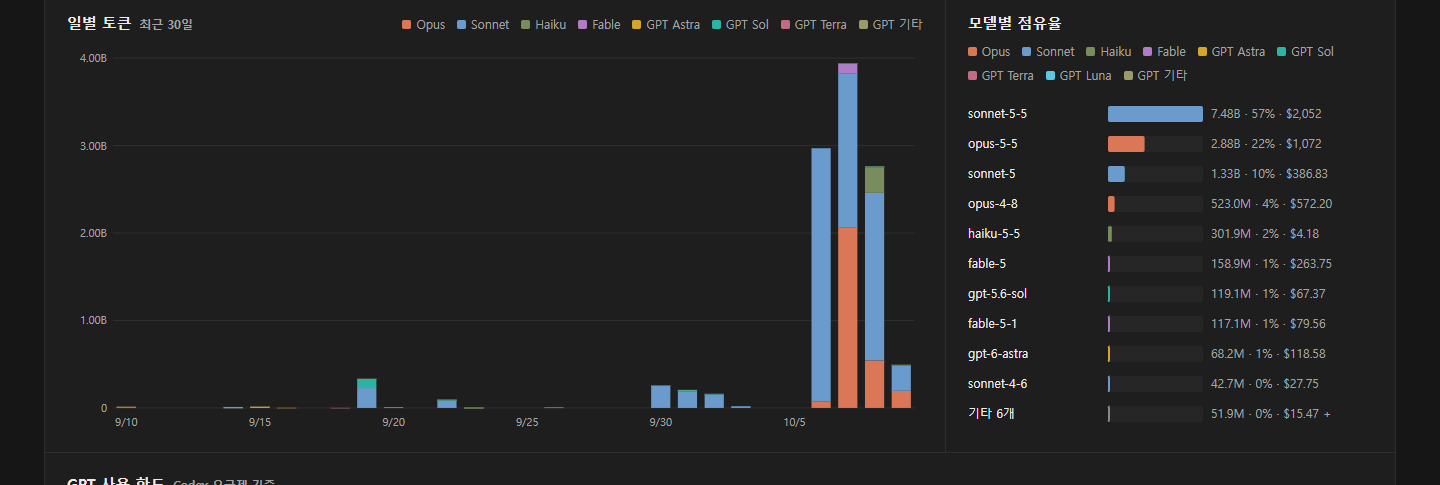
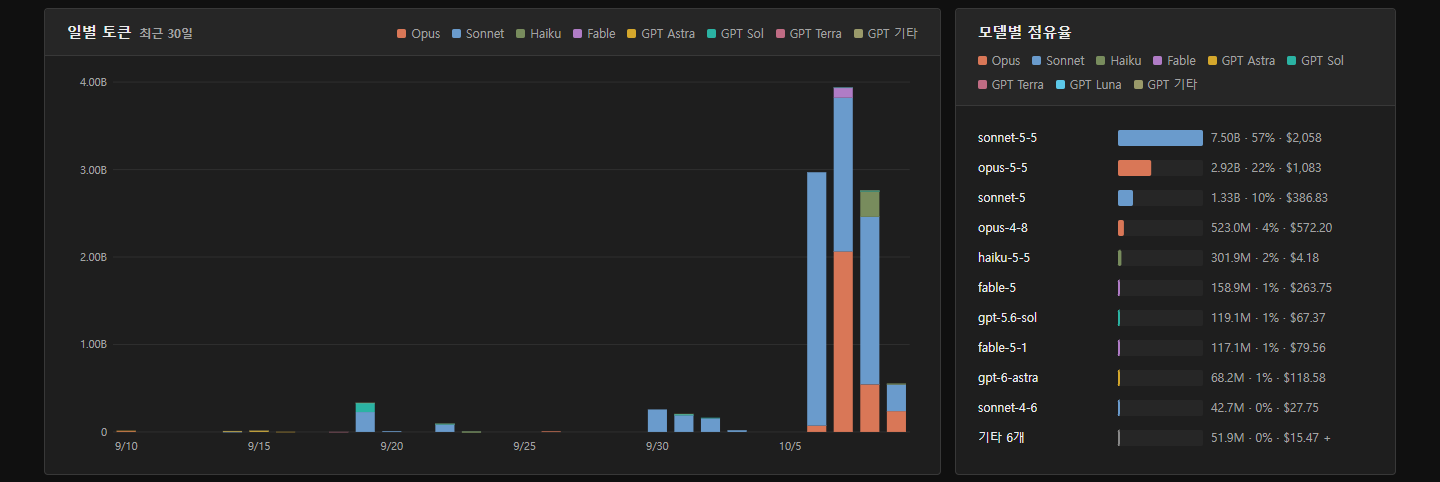
Design: clearly separated panels, drop current-hour marker; README update
- Panels sit on 14px gutters with a border and a raised title band each
- Hourly chart no longer draws the 지금 label / mint outline / tick
- README: new 화면 구성 section, 지금/특보 features, last60, ?theme and
  ?force-advisory, PRODUCT.md/DESIGN.md in the structure; new screenshots
- DESIGN.md, design sidecar and direction contract synced

diff --git a/public/style.css b/public/style.css
@@ -4,11 +4,11 @@
 
 :root {
   color-scheme: dark;
-  --ground: #161616;
+  --ground: #101010;
   --surface: #1e1e1e;
   --surface-2: #262626;
   --line: #2e2e2e;
-  --line-2: #3d3d3d;
+  --line-2: #383838;
   --ink: #ececec;
   --ink-2: #bdbdbd;
   --muted: #a3a3a3;
@@ -137,16 +137,15 @@ input { caret-color: var(--focus); }
 .grid {
   display: grid;
   grid-template-columns: repeat(12, minmax(0, 1fr));
-  gap: 1px;
-  background: var(--line);
-  border: 1px solid var(--line);
-  border-top: 0;
-  margin-top: 0;
+  gap: 14px;
+  margin-top: 14px;
 }
 .cell {
   background: var(--surface);
+  border: 1px solid var(--line-2);
+  border-radius: 4px;
   --px: 22px;
-  --py: 20px;
+  --py: 18px;
   padding: var(--py) var(--px);
   min-width: 0;
   display: flex;
@@ -164,7 +163,12 @@ input { caret-color: var(--focus); }
   justify-content: space-between;
   flex-wrap: wrap;
   gap: 8px 12px;
-  margin-bottom: 14px;
+  /* 패널 머리띠: 패널 폭 전체에 걸친 구분선으로 제목과 내용을 확실히 나눔 */
+  margin: calc(-1 * var(--py)) calc(-1 * var(--px)) 16px;
+  padding: 12px var(--px);
+  background: var(--surface-2);
+  border-bottom: 1px solid var(--line-2);
+  border-radius: 4px 4px 0 0;
 }
 .cell-head h2 { display: flex; align-items: baseline; gap: 8px; flex-wrap: wrap; }
 
@@ -261,10 +265,10 @@ input { caret-color: var(--focus); }
   display: grid;
   grid-template-columns: repeat(12, minmax(0, 1fr));
   /* 셀 안쪽 테두리 없이 셀 가장자리까지 펼치고, 카드의 윗선/왼쪽선이 셀 선과 한 격자를 이룸 (위 4/8 구분선과 같은 열 격자) */
-  margin: 0 calc(-1 * var(--px)) calc(-1 * var(--py)) calc(-1 * var(--px) - 1px);
+  margin: -17px calc(-1 * var(--px)) calc(-1 * var(--py)) calc(-1 * var(--px) - 1px);
 }
 .live-grid > .empty { grid-column: 1 / -1; padding: 16px var(--px); border-top: 1px solid var(--line); }
-.live-grid > .live-card { grid-column: span 4; border-top: 1px solid var(--line); border-left: 1px solid var(--line); }
+.live-grid > .live-card { grid-column: span 4; border-top: 1px solid var(--line-2); border-left: 1px solid var(--line-2); }
 .live-grid > .live-card:last-child:nth-child(3n+1) { grid-column: 1 / -1; }
 .live-grid > .live-card:nth-last-child(2):nth-child(3n+1),
 .live-grid > .live-card:last-child:nth-child(3n+2) { grid-column: span 6; }
@@ -374,15 +378,6 @@ input { caret-color: var(--focus); }
 .chart svg .track { fill: var(--surface-2); }
 .chart svg .hit { fill: transparent; cursor: default; }
 .chart svg .hit:hover { fill: color-mix(in srgb, var(--ink) 7%, transparent); }
-/* 현재 시간: 막대 윤곽 + "지금" 라벨 + 기준선 틱, 민트. 불투명도만 천천히 변함 */
-.chart svg .cur { animation: curPulse 3.6s ease-in-out infinite; pointer-events: none; }
-.chart svg .cur-box { fill: none; stroke: var(--live); stroke-width: 1.5; }
-.chart svg .cur-tick { stroke: var(--live); stroke-width: 2.5; }
-.chart svg text.cur-label { fill: var(--live); font-size: 11px; font-weight: 600; }
-@keyframes curPulse {
-  0%, 100% { opacity: 1; }
-  50% { opacity: 0.45; }
-}
 /* 시간별: 일별과 같이 셀 높이를 채움 (SVG는 절대 배치). 지금 블록 높이가 행 높이를 정함 */
 .c8.hourly { display: flex; flex-direction: column; }
 #hourly-chart { position: relative; flex: 1 1 auto; min-height: 220px; margin-top: 2px; }
@@ -682,7 +677,6 @@ table.agents td:first-child { max-width: 96px; overflow: hidden; text-overflow: 
 
 /* ---------- 움직임 최소화 ---------- */
 @media (prefers-reduced-motion: reduce) {
-  .badge.busy .dot, .chart svg .cur { animation: none !important; }
-  .drawer { transition: none !important; }
+  .badge.busy .dot,   .drawer { transition: none !important; }
   .flash { animation: none !important; }
 }

diff --git a/public/app.js b/public/app.js
@@ -716,10 +716,9 @@
     return { label: label, total: total, parts: parts, tip: tip };
   }
   // o.fill: 컨테이너(position:relative)를 채우도록 SVG를 절대 배치 (레이아웃 피드백 방지)
-  // o.outlineLast: 마지막(현재) 항목만 막대 윤곽 + "지금" 라벨 + 민트 기준선 틱
   function stackedBars(items, o) {
     var W = o.width, H = o.height;
-    var pl = 46, pr = o.outlineLast ? 12 : 8, pt = o.outlineLast ? 24 : 10, pb = 24;
+    var pl = 46, pr = 8, pt = 10, pb = 24;
     var iw = W - pl - pr, ih = H - pt - pb;
     var max = 0;
     items.forEach(function (it) { if (it.total > max) max = it.total; });
@@ -734,11 +733,9 @@
       out.push('<text class="axis" x="' + (pl - 6) + '" y="' + (gy + 4) + '" text-anchor="end">' +
         esc(fmtNum(sc.step * g)) + '</text>');
     }
-    var cur = null;
     items.forEach(function (it, i) {
       var x = pl + i * slot + (slot - bw) / 2;
       var base = pt + ih;
-      var isCur = o.outlineLast && i === items.length - 1;
       if (it.total > 0) {
         FAMILIES.forEach(function (f) {
           var v = (it.parts && it.parts[f]) || 0;
@@ -755,26 +752,12 @@
         out.push('<line class="day-sep" x1="' + (pl + i * slot).toFixed(1) + '" x2="' + (pl + i * slot).toFixed(1) +
           '" y1="' + pt + '" y2="' + (pt + ih) + '"/>');
       }
-      if (isCur) cur = { x: x, top: base };
       var showLabel = o.labelEvery ? i % o.labelEvery === 0 : it.show !== false;
       if (showLabel) {
         out.push('<text class="axis" x="' + (x + bw / 2).toFixed(1) + '" y="' + (H - 6) +
           '" text-anchor="middle">' + esc(it.label) + '</text>');
       }
     });
-    if (cur) {
-      // 현재 열의 막대 + 약간의 여유 높이만 윤곽선으로 표시하고, 위에 "지금", 아래 기준선에 민트 틱
-      var by = pt + ih, pad = 3, head = 6;
-      var ry = Math.max(2, Math.min(cur.top - head, by - 10));
-      var rx = cur.x - pad, rw = bw + pad * 2;
-      var cx = cur.x + bw / 2;
-      var anchor = cx > W - 18 ? 'end' : 'middle';
-      var lx = anchor === 'end' ? Math.min(W - 2, cx + bw / 2 + pad) : cx;
-      out.push('<g class="cur"><rect class="cur-box" x="' + rx.toFixed(1) + '" y="' + ry.toFixed(1) + '" width="' + rw.toFixed(1) +
-        '" height="' + (by - ry).toFixed(1) + '"/>' +
-        '<text class="cur-label" x="' + lx.toFixed(1) + '" y="' + (ry - 5).toFixed(1) + '" text-anchor="' + anchor + '">지금</text>' +
-        '<line class="cur-tick" x1="' + (rx - 2).toFixed(1) + '" x2="' + (rx + rw + 2).toFixed(1) + '" y1="' + by + '" y2="' + by + '"/></g>');
-    }
     if (max === 0) {
       out.push('<text class="axis" x="' + (W / 2) + '" y="' + (pt + ih / 2) + '" text-anchor="middle">기록 없음</text>');
     }
@@ -884,7 +867,7 @@
     var h = Math.max(220, Math.floor(el.clientHeight || 0));
     el._drawnW = w; el._drawnH = h;
     var items = buildHourly(sum, w < 560 ? 12 : 6);
-    el.innerHTML = stackedBars(items, { width: w, height: h, label: '최근 48시간 시간별 토큰', outlineLast: true, fill: true });
+    el.innerHTML = stackedBars(items, { width: w, height: h, label: '최근 48시간 시간별 토큰', fill: true });
     $('hourly-legend').innerHTML = legendHTML(sumParts(items), effProvider());
   }
   function renderModelShare(sum) {

diff --git a/public/index.html b/public/index.html
@@ -26,7 +26,7 @@
 
     <div class="grid">
       <section class="cell c4 now" aria-labelledby="now-h">
-        <h2 id="now-h">지금</h2>
+        <div class="cell-head"><h2 id="now-h">지금</h2></div>
         <div id="now-val" class="reading" aria-live="off">…</div>
         <div id="now-caption" class="now-caption muted small">불러오는 중</div>
         <div id="now-vs" class="now-vs small"></div>

diff --git a/DESIGN.md b/DESIGN.md
@@ -140,11 +140,11 @@ components:
 
 **Creative North Star: "The Night Forecast Office"**
 
-The dashboard reads token usage the way a weather service reads the sky. One large, light-weight numeral (지금, the last 60 minutes) is the temperature; a 48-hour hourly strip is the forecast; an amber 특보 appears only when the burn is abnormal and is otherwise absent. Everything sits on a dark neutral gray ground, divided into one 12-column cell grid by 1px hairlines. Nothing floats, nothing casts a shadow, and nothing is stacked as a rounded card.
+The dashboard reads token usage the way a weather service reads the sky. One large, light-weight numeral (지금, the last 60 minutes) is the temperature; a 48-hour hourly strip is the forecast; an amber 특보 appears only when the burn is abnormal and is otherwise absent. Everything sits on a dark neutral gray ground, laid out as bordered panels on one 12-column grid with 14px gutters of ground between them; each panel opens with a raised title band. Nothing casts a shadow.
 
 Color is spent like a signal budget. Mint means exactly one thing (running now), amber means exactly one thing (an advisory), and the model-family inks are a fixed transit-map legend that never changes meaning between charts, dots and legends. All remaining chrome is neutral gray, ink and hairline. Density is that of an instrument panel: 13-14px tabular text, compact controls, generous reading numerals.
 
-The page is built to stay open all day on a side monitor. Motion is limited to slow opacity pulses on live signals and a 0.2s drawer slide, all disabled under reduced motion. Dark is the default; the light theme is a daylight transposition of the same world, not a different one.
+The page is built to stay open all day on a side monitor. Motion is limited to a slow opacity pulse on the 작업 중 dot and a 0.2s drawer slide, all disabled under reduced motion. Dark is the default; the light theme is a daylight transposition of the same world, not a different one.
 
 **Key Characteristics:**
 - Dark neutral gray ground (no blue cast, per the user) with a slightly lighter work surface, divided by 1px hairlines.
@@ -159,7 +159,7 @@ The page is built to stay open all day on a side monitor. Motion is limited to s
 A dark neutral gray field carrying two reserved signal colors and a fixed legend of model-family inks.
 
 ### Primary
-- **Running Mint** (`live-mint`; daylight `day-live-mint`): the only "running now" signal. Used on the 작업 중 badge and its pulsing dot, the running-session count in the 지금 facts, and the current-hour outline, tick and 지금 label on the hourly strip. Never decorative, never a generic accent.
+- **Running Mint** (`live-mint`; daylight `day-live-mint`): the only "running now" signal. Used on the 작업 중 badge and its pulsing dot, and the running-session count in the 지금 facts. The hourly strip carries no current-hour marker (removed at the user's request). Never decorative, never a generic accent.
 
 ### Secondary
 - **Advisory Amber** (`advisory-amber`; daylight `day-advisory-amber`): the 특보 color. Used on the advisory banner (60% mix border, 11% mix fill, full-strength text), its 이번 시간 닫기 button, and the "평소의 N배" comparison under the reading when the hour runs hot. Absent when there is no advisory.
@@ -178,7 +178,7 @@ A dark neutral gray field carrying two reserved signal colors and a fixed legend
 - **Error Red** (`error-red`): error banner and gauges at high use only.
 
 ### Named Rules
-**The Reserved Mint Rule.** Mint appears only where something is running now. If nothing is running, no mint is on screen except the current-hour marker.
+**The Reserved Mint Rule.** Mint appears only where something is running now. If nothing is running, no mint is on screen.
 
 **The Advisory-Only Amber Rule.** Amber is spent only on the 특보 and the hot-hour comparison. It is never a warning color for anything else.
 
@@ -207,7 +207,7 @@ A dark neutral gray field carrying two reserved signal colors and a fixed legend
 
 ## Layout
 
-One centered column (max 1400px; 20px side padding, 24px from 1000px, 14px under 600px). Below the top bar, an optional status banner and the 특보 sit above a single 12-column grid whose 1px gaps are filled with the hairline color, so the gaps themselves draw the dividers. Cells span 4, 8 or 12 columns from 1000px up and all cells go full width below. Row 1 is 지금 (4) beside the hourly strip (8); then 현재 작업 중 (12); then daily (8) beside model share (4); rate-limit gauges (12); sessions table (12); pricing details (12).
+One centered column (max 1400px; 20px side padding, 24px from 1000px, 14px under 600px). Below the top bar, an optional status banner and the 특보 sit above a single 12-column grid with 14px gutters; each panel is a surface with a 1px strong-hairline border, 4px radius, and a raised title band (surface-2) divided from its content by a strong hairline. Cells span 4, 8 or 12 columns from 1000px up and all cells go full width below. Row 1 is 지금 (4) beside the hourly strip (8); then 현재 작업 중 (12); then daily (8) beside model share (4); rate-limit gauges (12); sessions table (12); pricing details (12).
 
 Cells pad 20px by 22px (16px by 14px under 600px). Live-session cards bleed to the cell edges and form their own 12-column sub-grid of thirds (halves under 800px, single column under 600px); a short final row stretches its rules to the row end while keeping content the width of its neighbours. Charts fill the row height on desktop (min 220px) and fix to 240px below 1000px.
 
@@ -218,11 +218,11 @@ The sessions table never scrolls horizontally: columns are hidden in a fixed ord
 Flat. There are no box-shadows anywhere. Depth is tonal: ground, then surface, then raised surface for hover and tracks, with hairlines separating planes. The only overlay is the drawer scrim (`rgba(3, 7, 14, .6)`) behind a surface-colored drawer with a strong-hairline left edge.
 
 ### Named Rules
-**The Hairline Grid Rule.** Panels are separated by 1px lines, not by shadows, gaps of ground, or rounded card silhouettes. A new panel joins the 12-column grid as another cell.
+**The Separated Panel Rule.** Panels are separated unmistakably: a 14px gutter of ground, a 1px strong-hairline border, and a raised title band, never shadows. Inside a panel, items (facts, live cards, table rows) are divided by 1px hairlines. A new panel joins the 12-column grid as another bordered cell with a title band (user feedback: sections must read as clearly distinct).
 
 ## Shapes
 
-Square-edged. Cells and live cards have no radius at all; their edges are the grid lines. Controls take a barely-softened 3px corner (buttons, chips, search, segmented toggle, banners, tooltip, table wrapper); small badges and swatches take 2px. The only round forms are status dots (6px circles: filled for 작업 중, hollow ring for 대기). The 종료 stamp is a 1px-bordered label rotated -4deg, like an ink stamp on a ticket. The prompt quote is marked by a single 1px left rule.
+Nearly square. Panels take a 4px radius; live cards inside a panel have none, their edges are the panel's internal hairlines. Controls take a barely-softened 3px corner (buttons, chips, search, segmented toggle, banners, tooltip, table wrapper); small badges and swatches take 2px. The only round forms are status dots (6px circles: filled for 작업 중, hollow ring for 대기). The 종료 stamp is a 1px-bordered label rotated -4deg, like an ink stamp on a ticket. The prompt quote is marked by a single 1px left rule.
 
 ## Components
 
@@ -243,7 +243,7 @@ A single strong-hairline outline with internal 1px dividers; muted 12px labels; 
 - **Corner Style:** none (cells, live cards).
 - **Background:** night surface; live cards raise on hover and are keyboard-focusable with an inset focus ring.
 - **Shadow Strategy:** none (see Elevation).
-- **Border:** formed by the hairline grid; live cards draw top and left hairlines into the cell's grid.
+- **Border:** live cards draw top and left strong hairlines inside their panel.
 - **Internal Padding:** cells 20px 22px; live cards 14px 16px with 6px internal rhythm.
 
 ### Inputs / Fields
@@ -263,7 +263,7 @@ Full width above row 1, only when the last hour exceeds twice the average of the
 Headline, the display reading, a muted caption (최근 60분), the comparison line (amber when hot), a 4px model-ink split bar on a raised track, then a hairline-ruled fact list (dt muted left, dd tabular right) with the running count in mint, and a collapsible input/output/cache breakdown.
 
 ### Hourly forecast strip
-SVG stacked bars in model inks, one per hour, muted 11px axes, hairline gridlines, strong-hairline day separators with day labels. The current hour is outlined in mint (1.5px) with a mint tick and a 지금 label, pulsing slowly in opacity (3.6s). Hover lifts a 7%-ink column and shows a raised tooltip.
+SVG stacked bars in model inks, one per hour, muted 11px axes, hairline gridlines, strong-hairline day separators with day labels. Hover lifts a 7%-ink column and shows a raised tooltip.
 
 ### Sessions table
 13px, hairline row rules, sticky muted 12px header on the surface color with a strong-hairline rule. Every header is a sort button with a 10px chevron left of the label (40% opacity, full ink when sorted). Rows raise on hover and take a 13% focus-steel fill when selected.
@@ -274,12 +274,12 @@ SVG stacked bars in model inks, one per hour, muted 11px axes, hairline gridline
 ## Do's and Don'ts
 
 ### Do:
-- **Do** put every new panel into the 12-column hairline grid as a span-4, span-8 or span-12 cell.
+- **Do** put every new panel into the 12-column grid as a bordered span-4, span-8 or span-12 panel with a title band.
 - **Do** keep mint for running-now signals and amber for the 특보 only.
 - **Do** take model colors from `FAMILY_COLOR`; the same family is the same ink in every chart, legend, swatch and theme.
 - **Do** use tabular numerals for every value and right-align numbers in tables and fact lists.
 - **Do** mark ended sessions with the tilted 종료 stamp rather than fading them.
-- **Do** keep motion to slow opacity pulses and the 0.2s drawer slide, and switch it off under `prefers-reduced-motion`.
+- **Do** keep motion to the 작업 중 dot pulse and the 0.2s drawer slide, and switch it off under `prefers-reduced-motion`.
 - **Do** define colors as custom properties with both a dark (default) and a daylight value, honoring `prefers-color-scheme` and the `data-theme` override.
 
 ### Don't:

diff --git a/README.md b/README.md
@@ -10,15 +10,33 @@
 
 ## 주요 기능
 
+- **지금**: 최근 60분 토큰을 큰 숫자로 보여주고, 그 아래에 평소(최근 48시간 중 사용량이 있던 시간의 평균) 대비 배율을 "평소의 N배"로 표시합니다. 오늘·7일·전체 토큰과 추정 비용, 오늘 작업시간, 작업 중 / 대기 세션 수도 같은 패널에 있습니다.
+- **특보**: 최근 60분 사용량이 평소의 2배를 넘으면 화면 위에 호박색 특보 배너가 뜹니다. 그 시간 동안 닫아 둘 수 있습니다.
 - **세션 / 서브에이전트별 토큰 사용량**: input, output, cache write, cache read 토큰과 합계를 세션·에이전트 단위로 집계합니다.
 - **작업 시간**: 타임스탬프 간격이 5분 이하인 구간만 더한 활성 시간(`activeMs`)과 처음부터 마지막까지의 경과 시간(`wallMs`)을 보여줍니다.
 - **현재 작업 중 패널**: 실행 중인 세션을 작업 중 / 대기 상태와 경과 시간(1초 단위로 갱신)과 함께 표시합니다.
-- **차트**: 최근 30일 일별 누적 막대(모델 계열별), 최근 48시간 시간별 막대, 모델별 점유율.
+- **차트**: 최근 48시간 시간별 막대, 최근 30일 일별 누적 막대(모델 계열별), 모델별 점유율.
 - **추정 비용**: API 정가 기준 추정치입니다. 구독 요금이 아닙니다.
 - **Claude / GPT / 전체 토글**: 두 제공자 중 보고 싶은 쪽만 볼 수 있습니다. 로그가 하나뿐이면 토글은 숨겨집니다.
 - **GPT 사용 한도 게이지**: Codex 로그에 기록된 5시간 / 주간 한도 사용률과 초기화 시각을 보여줍니다.
 - **세션 목록**: 검색, 필터(전체 / 실행 중 / 오늘 / 7일), 열 정렬. 행을 누르면 모델별·에이전트별 상세가 열립니다.
 - **데모 모드**: `--demo` 로 실행하면 제목, 프로젝트명, 경로, 프롬프트를 가린 채 화면을 띄웁니다. 화면 녹화용입니다.
+
+### 화면 구성
+
+짙은 회색 바탕 위에 패널을 12칸 격자로 배치하고, 패널마다 테두리와 제목 띠를 둬서 구역이 확실히 나뉩니다.
+
+| 위치 | 패널 |
+| --- | --- |
+| 첫 줄 | 지금 (왼쪽) · 시간별 토큰 48시간 (오른쪽) |
+| 둘째 줄 | 현재 작업 중 (세션 카드, 경과·작업시간 1초마다 갱신) |
+| 셋째 줄 | 일별 토큰 30일 · 모델별 점유율 |
+| 아래 | GPT 사용 한도 (Codex 기록이 있을 때) · 세션 목록 · 가격표 |
+
+- **색의 규칙**: 민트색은 "작업 중"에만, 호박색은 특보에만 씁니다. 모델별 색은 모든 차트·점·범례에서 같습니다. 종료된 세션에는 '종료' 도장이 붙습니다.
+- **라이트 테마**: 운영체제 설정을 따릅니다. 주소 뒤에 `?theme=light` 또는 `?theme=dark` 를 붙이면 바꿔 볼 수 있습니다.
+- **특보 미리보기**: `?force-advisory=1` 을 붙이면 조건과 상관없이 특보 배너를 띄웁니다(화면 확인용).
+- 디자인 원칙과 색·글자 크기 토큰은 [DESIGN.md](DESIGN.md), 제품 정의는 [PRODUCT.md](PRODUCT.md)에 있습니다.
 
 ### 스크린샷
 
@@ -124,6 +142,7 @@ Node.js를 설치하지 않아도 되는 단일 실행 파일입니다.
 
 - **중복 제거**: 같은 `message.id` 는 한 번만 셉니다. 한 응답이 여러 줄로 나뉘어 같은 usage가 반복되므로, 마지막 줄의 usage만 씁니다.
 - **증분 읽기**: 파일은 마지막으로 읽은 바이트 위치부터 추가된 부분만 읽습니다. 줄이 끝나지 않은 조각은 다음 갱신 때 이어서 처리합니다.
+- **최근 60분(`last60`)**: 분 단위로 집계한 값을 최근 3시간치만 보관하고, 지금부터 60분 전까지를 더합니다. 특보와 "평소의 N배"는 이 값을 최근 48시간 중 사용량이 있던 완료된 시간의 평균과 비교합니다.
 - **작업 시간(`activeMs`)**: 연속된 타임스탬프 간격이 5분 이하인 구간의 합입니다. 5분을 넘는 공백은 작업으로 치지 않습니다.
 - **서브에이전트**: `subagents/` 아래 하위 폴더(`subagents/workflows/<wf>/` 포함)까지 찾습니다.
 - **실행 중 판단**: Claude는 `sessions/<pid>.json` 파일이 있고 해당 프로세스가 살아 있을 때 실행 중으로 봅니다. Codex는 파일 수정 시각으로 판단합니다. 10분 이내에 작업이 시작됐으면 작업 중, 30분 이내면 대기입니다.
@@ -160,7 +179,8 @@ Node.js를 설치하지 않아도 되는 단일 실행 파일입니다.
 - `scanning`, `progress: {done, total}`: 초기 스캔 상태
 - `totals`, `today`, `last7d`: 토큰, 모델별, 작업 시간
 - `daily`: 최근 30일, 오래된 날짜부터
-- `hourly`: 최근 48시간 `{"YYYY-MM-DDTHH": 합계}`
+- `hourly`: 최근 48시간 `{"YYYY-MM-DDTHH": 합계}`, `hourlyByFamily`: 같은 구간의 모델 계열별 값
+- `last60`: 최근 60분 `{total, byFamily, cost}`
 - `live`: 실행 중인 세션, `sessions`: 전체 세션(마지막 활동 내림차순)
 - `pricing`: 비용 설명과 단가표
 
@@ -175,6 +195,9 @@ lib/codex.js        Codex 로그 해석
 lib/pricing.js      Claude / GPT 비용 추정 (순수 함수)
 lib/mask.js         데모 모드 가림 처리
 public/             화면 (index.html, app.js, style.css)
+PRODUCT.md          제품 정의 (사용자, 목적, 제약)
+DESIGN.md           디자인 시스템 (색·글자·격자 토큰, 규칙)
+.impeccable/        디자인 작업 기록 (방향 계약, 디자인 토큰 사이드카)
 config.json         설정
 start.bat           Windows 실행 스크립트
 demo.bat            Windows 데모 실행 스크립트 (포트 7778)
@@ -228,7 +251,7 @@ MIT. 자세한 내용은 [LICENSE](LICENSE) 를 보세요.
 
 ## English
 
-**token-dashboard** is a read-only, local web dashboard. It reads your local Claude Code logs (`~/.claude`) and OpenAI Codex logs (`~/.codex/sessions`) and shows token usage, active work time, live sessions, and estimated API list-price cost. It uses only Node.js built-in modules, binds to `127.0.0.1`, has no auth, and makes no network calls.
+**token-dashboard** is a read-only, local web dashboard. It reads your local Claude Code logs (`~/.claude`) and OpenAI Codex logs (`~/.codex/sessions`) and shows token usage, active work time, live sessions, and estimated API list-price cost. The first row shows the last 60 minutes (with a "N× usual" ratio and an advisory banner above 2×) next to a 48-hour hourly chart; panels sit on a dark gray 12-column grid. Light theme follows the OS, or use `?theme=light|dark`. It uses only Node.js built-in modules, binds to `127.0.0.1`, has no auth, and makes no network calls.
 
 - **Run:** `node server.js` (or `start.bat` on Windows), then open http://localhost:7777. Node 20+ recommended; developed and tested on Node 24.
 - **Demo mode:** `node server.js --demo` (or `demo.bat`, port 7778) masks session titles, project names, paths and prompts for screen recording.

diff --git a/.impeccable/surfaces/public-index-html.md b/.impeccable/surfaces/public-index-html.md
@@ -16,11 +16,11 @@ Unresolved: none.
 
 THESIS: Read token usage like a weather service reads the sky: a large "지금" (now) reading, a 48-hour hourly forecast strip, and an advisory (특보) only when the burn is abnormal. Refuses the category default of a row of equal KPI cards over two charts and a table.
 
-OWN-WORLD: Dark neutral gray ground (#161616) with a slightly lighter gray work surface (user preference: no blue ground); panels divided by 1px hairlines, no shadows, no rounded card stacks; one 12-column cell grid every panel locks to. Mint (#5BE3C0) is reserved exclusively for "running now"; amber (#FF9F43) only for the 특보 advisory. Model-family inks (Opus coral, Sonnet blue, Haiku olive, Fable violet, GPT families) are identical everywhere and brightest when active. System sans with tabular numerals; large light-weight numerals for readings, like a forecast's temperature. Ended sessions carry a quiet "종료" stamp state instead of fading away.
+OWN-WORLD: Dark neutral gray ground (#161616) with a slightly lighter gray work surface (user preference: no blue ground); bordered panels with 14px gutters and raised title bands on one 12-column grid, no shadows (revised after user feedback for clearer separation). Mint (#5BE3C0) is reserved exclusively for "running now"; amber (#FF9F43) only for the 특보 advisory. Model-family inks (Opus coral, Sonnet blue, Haiku olive, Fable violet, GPT families) are identical everywhere and brightest when active. System sans with tabular numerals; large light-weight numerals for readings, like a forecast's temperature. Ended sessions carry a quiet "종료" stamp state instead of fading away.
 
 STORY: The visitor sees in one glance whether anything is running and how hard it is burning right now, compares the current hour with the last 48, notices an advisory if one fires, then scans live sessions and drops into the table or a session drawer when needed.
 
-FIRST VIEWPORT: Top bar: product name left, provider toggle and last-update time right, hairline below. Row 1 (12 cols): "지금" block (4 cols): tokens in the last 60 minutes as the large reading with its model-ink split bar, then today's total, today's estimated cost, active time, and the running session count in mint. Beside it (8 cols) the 48-hour hourly strip: one column per hour, stacked model inks, the current hour outlined in mint, day boundaries labeled, hover reveals exact values. A full-width 특보 banner appears above row 1 only when the last hour exceeds 2x the average of the nonzero hours in the 48-hour window (otherwise absent). Row 2: running/idle session cards with mint live indicator and ticking time. Below the fold: 30-day daily (8 cols) and model share (4 cols), GPT rate-limit gauges, then the sessions table.
+FIRST VIEWPORT: Top bar: product name left, provider toggle and last-update time right, hairline below. Row 1 (12 cols): "지금" block (4 cols): tokens in the last 60 minutes as the large reading with its model-ink split bar, then today's total, today's estimated cost, active time, and the running session count in mint. Beside it (8 cols) the 48-hour hourly strip: one column per hour, stacked model inks, day boundaries labeled, hover reveals exact values. A full-width 특보 banner appears above row 1 only when the last hour exceeds 2x the average of the nonzero hours in the 48-hour window (otherwise absent). Row 2: running/idle session cards with mint live indicator and ticking time. Below the fold: 30-day daily (8 cols) and model share (4 cols), GPT rate-limit gauges, then the sessions table.
 
 FORM: 기상청 동네예보 (weather service now + hourly forecast), position 5 on the ordered list; raises kept from ticket wallet (stamped states), Crouwel grid (one cell grid), transit diagram (fixed line inks), orienteering (one color reserved for active), design annual (hairline division). Seed key ae92289f.
 
